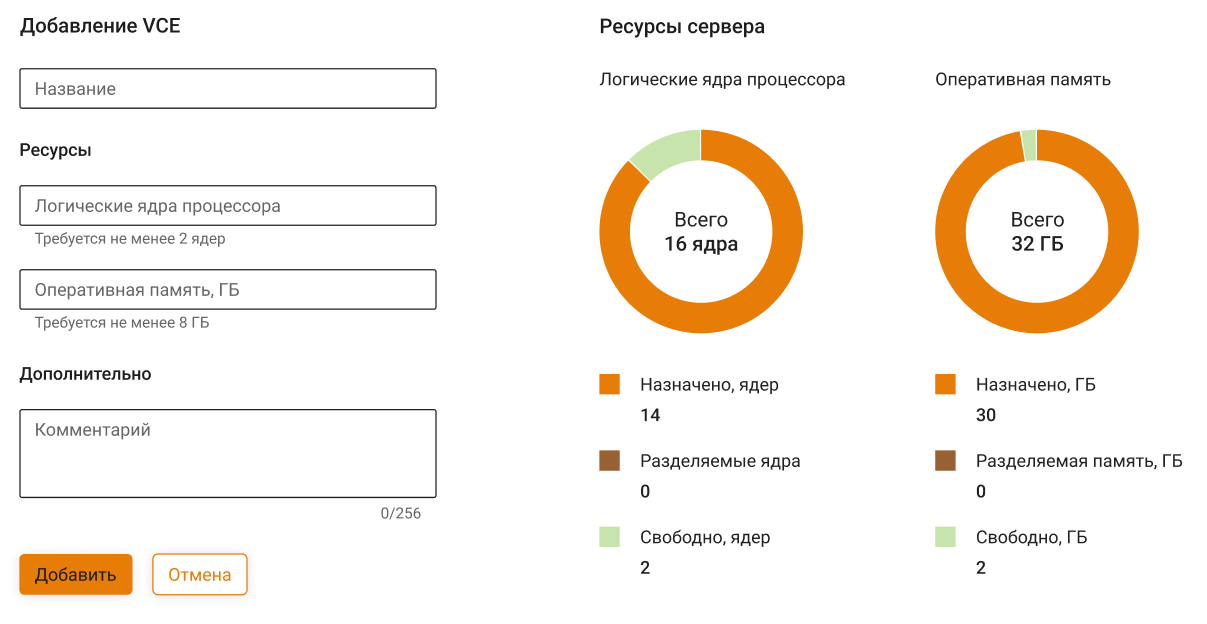
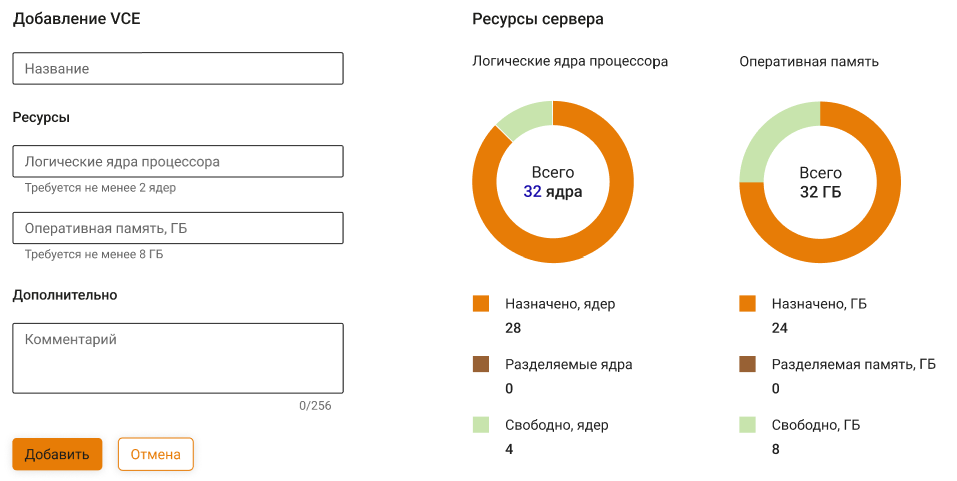
ICS-49794 УТМ. Правки в статье про VCE

diff --git a/settings/server-management/vce.md b/settings/server-management/vce.md
@@ -46,7 +46,7 @@ VCE (virtual context engine) - это функция Ideco NGFW, которая 
 
 1\. Выключите все работающие VCE, нажав ![](/.gitbook/assets/icon-bot-off.png).
 
-2\. После выключения всех VCE нужно настроить **Системный контекст**, нажав ![](/.gitbook/assets/icon-edit.png). Выделите ресурсы, убедитесь, что системе выделено не менее 8 ГБ оперативной памяти и двух логических ядер:
+2\. После выключения всех VCE нужно настроить **Системный контекст**, нажав ![](/.gitbook/assets/icon-edit.png). Выделите ресурсы, убедитесь, что системе выделено не менее 8 ГБ оперативной памяти и 2 логических ядер:
 
 ![](/.gitbook/assets/vce2.png)
 
@@ -66,24 +66,28 @@ VCE (virtual context engine) - это функция Ideco NGFW, которая 
 При запуске VCE без выделенных ресурсов:
 
 *  Если **Свободных ресурсов** достаточно, ресурсы перейдут в **Разделяемые ресурсы**.
-*  Если **Свободных ресурсов** недостаточно, у VCE появится статус **Недостаточно ресурсов**.
+*  Если **Свободных ресурсов** недостаточно, появится уведомление об этом.
 
 С 21-й версии поддержка VCE без выделенных ресурсов будет прекращена.
 {% endhint %}
 
 Чтобы создать виртуальный сервер в рамках VCE, перейдите в раздел **Управление сервером -> VCE** и выполните действия:
 
-1\. Нажмите **Добавить**.
+1\. Освободите ресурсы, назначенные в **Системном контексте**, и перенесите их в список **Свободных ресурсов**. Для этого откройте редактирование VCE, нажав на ![](/.gitbook/assets/icon-edit.png), и перераспределите ресурсы:
 
-2\. Укажите название сервера и выделите ему ресурсы. Для работы VCE требуется не менее 8 ГБ оперативной памяти и два логических ядра:
+![](/.gitbook/assets/vce4.png)
+
+2\. Нажмите **Добавить**.
+
+3\. Укажите название сервера и выделите ресурсы. Для работы VCE требуется не менее 8 ГБ оперативной памяти и 2 логических ядра:
 
 ![](/.gitbook/assets/vce.png)
 
-3\. Нажмите **Добавить** - виртуальный сервер появится в таблице:
+4\. Нажмите **Добавить** - виртуальный сервер появится в таблице:
 
 ![](/.gitbook/assets/vce1.png)
 
-4\. Перейдите в раздел **Сервисы -> Сетевые интерфейсы** и на вкладке **VCE** создайте интерфейс для виртуального сервера. Для работы VCE нужен минимум один сетевой интерфейс. Подробнее о создании VCE-интерфейсов в [статье](/settings/services/connection-to-provider/README.md#vce-interfeisy).
+5\. Перейдите в раздел **Сервисы -> Сетевые интерфейсы** и на вкладке **VCE** создайте интерфейс для виртуального сервера. Для работы VCE нужен минимум один сетевой интерфейс. Подробнее о создании VCE-интерфейсов в [статье](/settings/services/connection-to-provider/README.md#vce-interfeisy).
 
 {% hint style="info" %}
 Сетевой интерфейс без тега VLAN, подключенный к VCE, будет недоступен для использования корневым NGFW.
